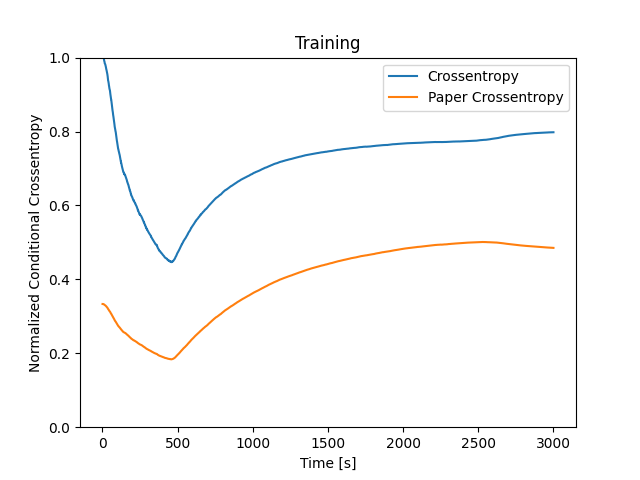
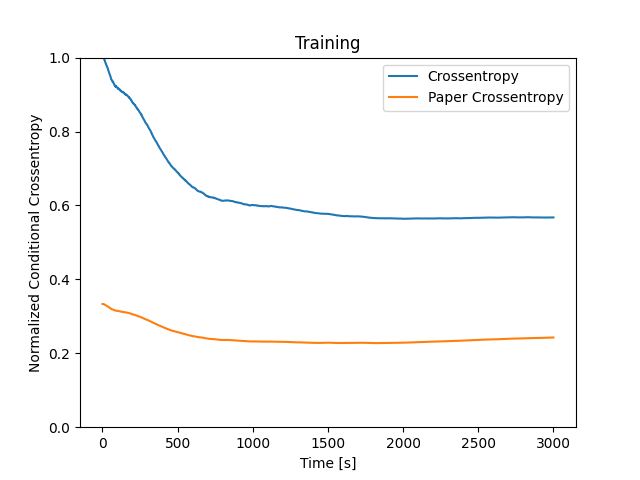
Improve mnist performance

diff --git a/mnist_experiment_with_plotting.py b/mnist_experiment_with_plotting.py
@@ -84,8 +84,8 @@ model_config = ModelConfig(
         background_oscillation_args=input_osc_args
     ),
     stdp_config=STDPConfig(
-        base_mu=2e-1,
-        base_mu_bias=2e-1,
+        base_mu=5e-2,
+        base_mu_bias=5e-2,
         c=1.,
         time_batch_size=10,
         adaptive=True,
